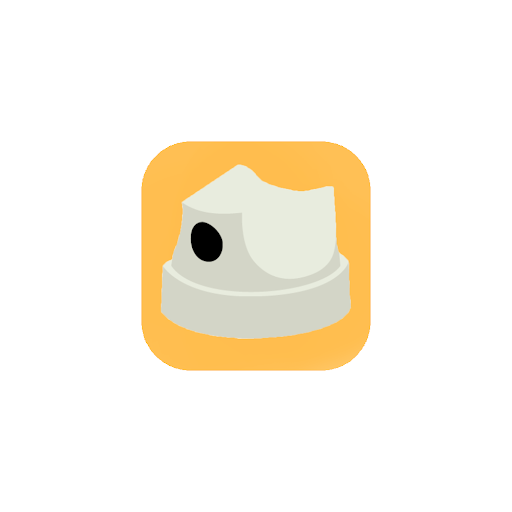
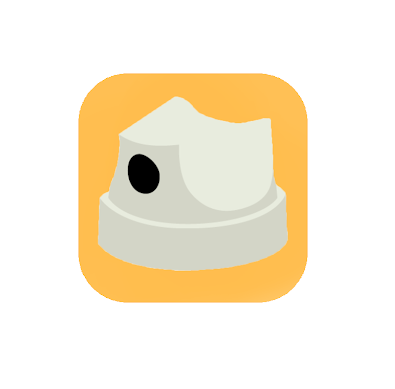
blackbook changes

Changed region(s): [[0.1823, 0.1851, 0.7899, 0.8021]]

diff --git a/blackbook.html b/blackbook.html
@@ -2,7 +2,7 @@
 
 <html>
 
-<head>
+<head></head>
 	<title>BlackBook</title>
 	<meta charset="utf-8" />
 	<meta name="viewport" content="width=device-width, initial-scale=1, user-scalable=no" />
@@ -39,36 +39,60 @@
 			<p><b>So How Will We Make Profit?</b>App monetization will include advertising similar to how instagram
 				make their profit.</p>
 
-
 			<h4>Primary Users</h4>
 			<img class="work" src="images/persona.png" alt="color">
-			<img class="work" src="images/map.png" alt="color">
+
+			<!--The design-->
 			<h4>The Design</h4>
 			<img class="work" src="images/blackbookColor.png" alt="color">
 			<p>Blackbook’s color scheme is simple with a few pops of color so that the murals featured on the app can
 				stand out and speak for themselves. The color scheme is simple yet modern.
 				The Orange yellow (#ffdb4d) is used for our icon. Orange and yellow are associated with
 				joy, enthusiasm, and happiness. </p>
-			<img class="work" src="images/BlackBookDesign.png" alt="color">
-
-
-			<p><img class="mini" src="images/Blackbook.png" alt="blackpin" height="70" width="70"> We decided on using a spray paint
+			
+				<p><b>Logo and Identity</b></p>
+			<p><img class="mini" src="images/Blackbook.png" alt="" height="85" width="85"> We decided on using a
+				spray paint
 				cap as our logo because it is the embodiment of graffiti. Street art is commonly associated with spray
 				paint and bright colors so we chose a vibrant shade of orange for the background to contrast with the
 				typography chosen for the application name. </p>
-			<p><img src="images/bbicon.png" alt="blackpin" height="20" width="13"> The mobile application icon display
+
+				<p><b>Mobile App Icon</b></p>
+			<p><img class="mini" src="images/bbicon.png" alt="blackpin" height="100" width="100"> The mobile application
+				icon display
 				has an orange (#ffbd4d) color background to match the colors used in our app design. The color orange is
 				perfect for our street art app because it represents joy and creativity. The icon contains only the logo
-				of our brand to keep it simple and modern.  </p>
-			<p><img src="images/camera.png" alt="blackpin" height="20" width="13"> The BLACK pin represents the center
-				of the radius</p>
+				of our brand to keep it simple and modern. </p>
 
-			<p><img src="images/blackpin.png" alt="blackpin" height="20" width="13"> The BLACK pin represents the center
+				<p><b>Camera</b></p>
+			<p><img class="mini" src="images/camera.png" alt="" height="150" width="90"> When designing the camera’s
+				interface, we wanted to make sure it was easy to use by making it familiar to users so that they aren’t
+				confused. We compared the interface to a simple camera on an iPhone or the Instagram app. The camera is
+				used to take pictures of murals that users find and post it onto the app. Other users are then able to
+				view the art, share it, favorite it, comment on it, etc. </p>
+
+				<h4>Maps</h4>
+				<p><b>Default Map</b></p>
+				<p><img class="mini" src="images/bbmap.png" alt="bbmap" height="170" width="100"> The map is a standard theme that shows roads, 
+					landmarks and labels. We choose this style because it is already familiar to users. Users can pinch in and out using their fingers. 
+					</p>
+
+
+					<p><b>Pin Drop Location:</b> When a user is selecting a specific area, the light blue circle will represent a radius selected by the user. </p>
+
+			<p><img src="images/blackpin.png" alt="" height="20" width="13"> The BLACK pin represents the center
 				of the radius</p>
-			<p><img src="images/redpin.png" alt="blackpin" height="20" width="13"> The BLACK pin represents the center
-				of the radius</p>
-			<p><img src="images/notification.png" alt="blackpin" height="20" width="13"> The BLACK pin represents the
-				center of the radius</p>
+			<p><img src="images/redpin.png" alt="" height="18" width="15"> The RED pin marks all the street art
+				and/or events found within the radius.</p>
+
+				<h4>Notifications</h4>
+			<p><b>Nearby Places:</b> When a user comes near a location of interest, whether it be artwork or an event, a
+				notification will be displayed on the user’s device to let them know of it. Pressing the notification
+				will bring the user directly to the map and drop a pin for them.</p>
+			<img src="images/notification.png" alt="blackpin" height="60" width="230"> 
+			<p><b>Recommendations:</b> Notifications may also make periodic recommendations to artwork and events in
+				general, based on the user’s interests, though any of the aforementioned features can be turned off at
+				their discretion.</p>
 
 			<h4>Low Fidelity Paper Prototype</h4>
 			<img class="work" src="images/BBlow.png" alt="BBlow">

diff --git a/salon.html b/salon.html
@@ -78,28 +78,6 @@
 					class="icon brands fa-linkedin-in"><span class="label">LinkedIn</span></a></li>
 			<li><a href="https://github.com/justmekalin" class="icon brands fa-github"><span
 						class="label">Github</span></a></li>
-			<!--
-								
-								<li><a href="#" class="icon brands fa-instagram"><span>Instagram</span></a></li>\
-								<li><a href="#" class="icon brands fa-youtube"><span>YouTube</span></a></li>
-								<li><a href="#" class="icon brands fa-blogger"><span>Blogger</span></a></li>
-								
-							
-							 <div class="row">
-								<div class="column">
-								  <a href="https://www.instagram.com/justmekalin/">
-								  <img target= "_blank" src="images/instagram-logo.png" alt="igLogo" width="40" height="40">
-								</a>
-								</div>
-								<div class="column">
-								  <a href="https://github.com/justmekalin?tab=repositories" >
-								  <img target= "_blank" src="images/github.png" alt="github" width="40" height="40">
-								</a>
-								</div>
-								<div class="column">
-								  <a href="https://www.linkedin.com/in/mekalin-paengwan-7b3209188/" >
-								  <img target= "_blank" src="images/linkedin.png" alt="linkedin" width="40" height="40">
-							-->
 		</ul>
 
 

diff --git a/assets/css/main.css b/assets/css/main.css
@@ -823,3 +823,8 @@ body>article {
 		background-color: transparent;
 	}
 }
+
+.mini {
+	float: left;
+	margin-right: 8px;
+}
